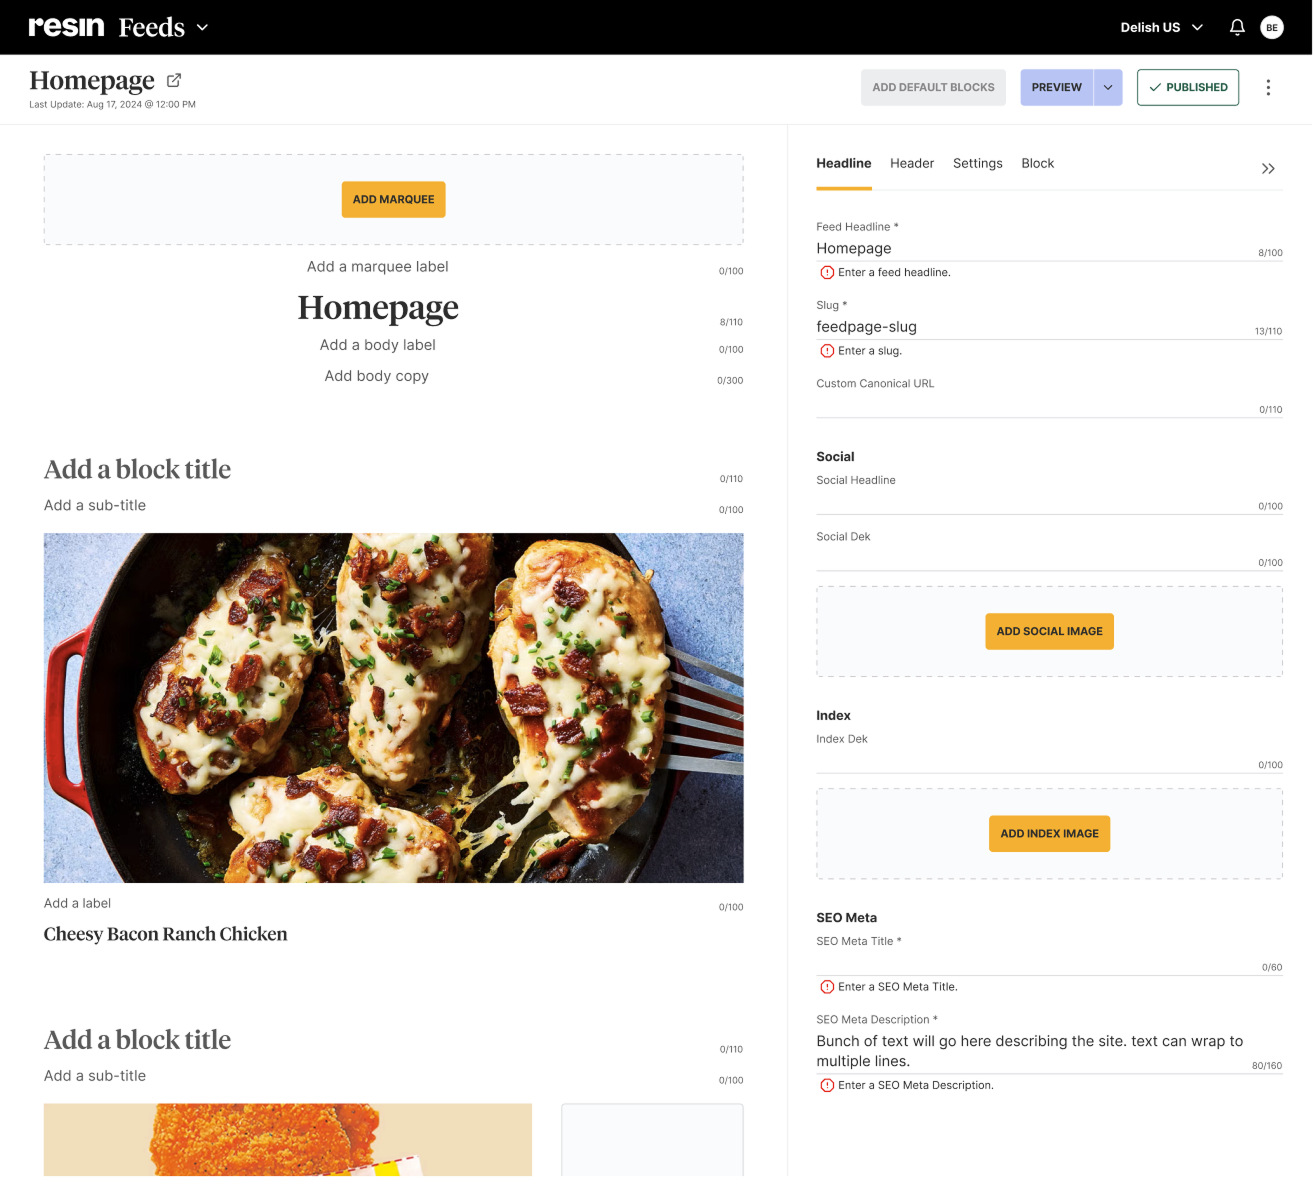
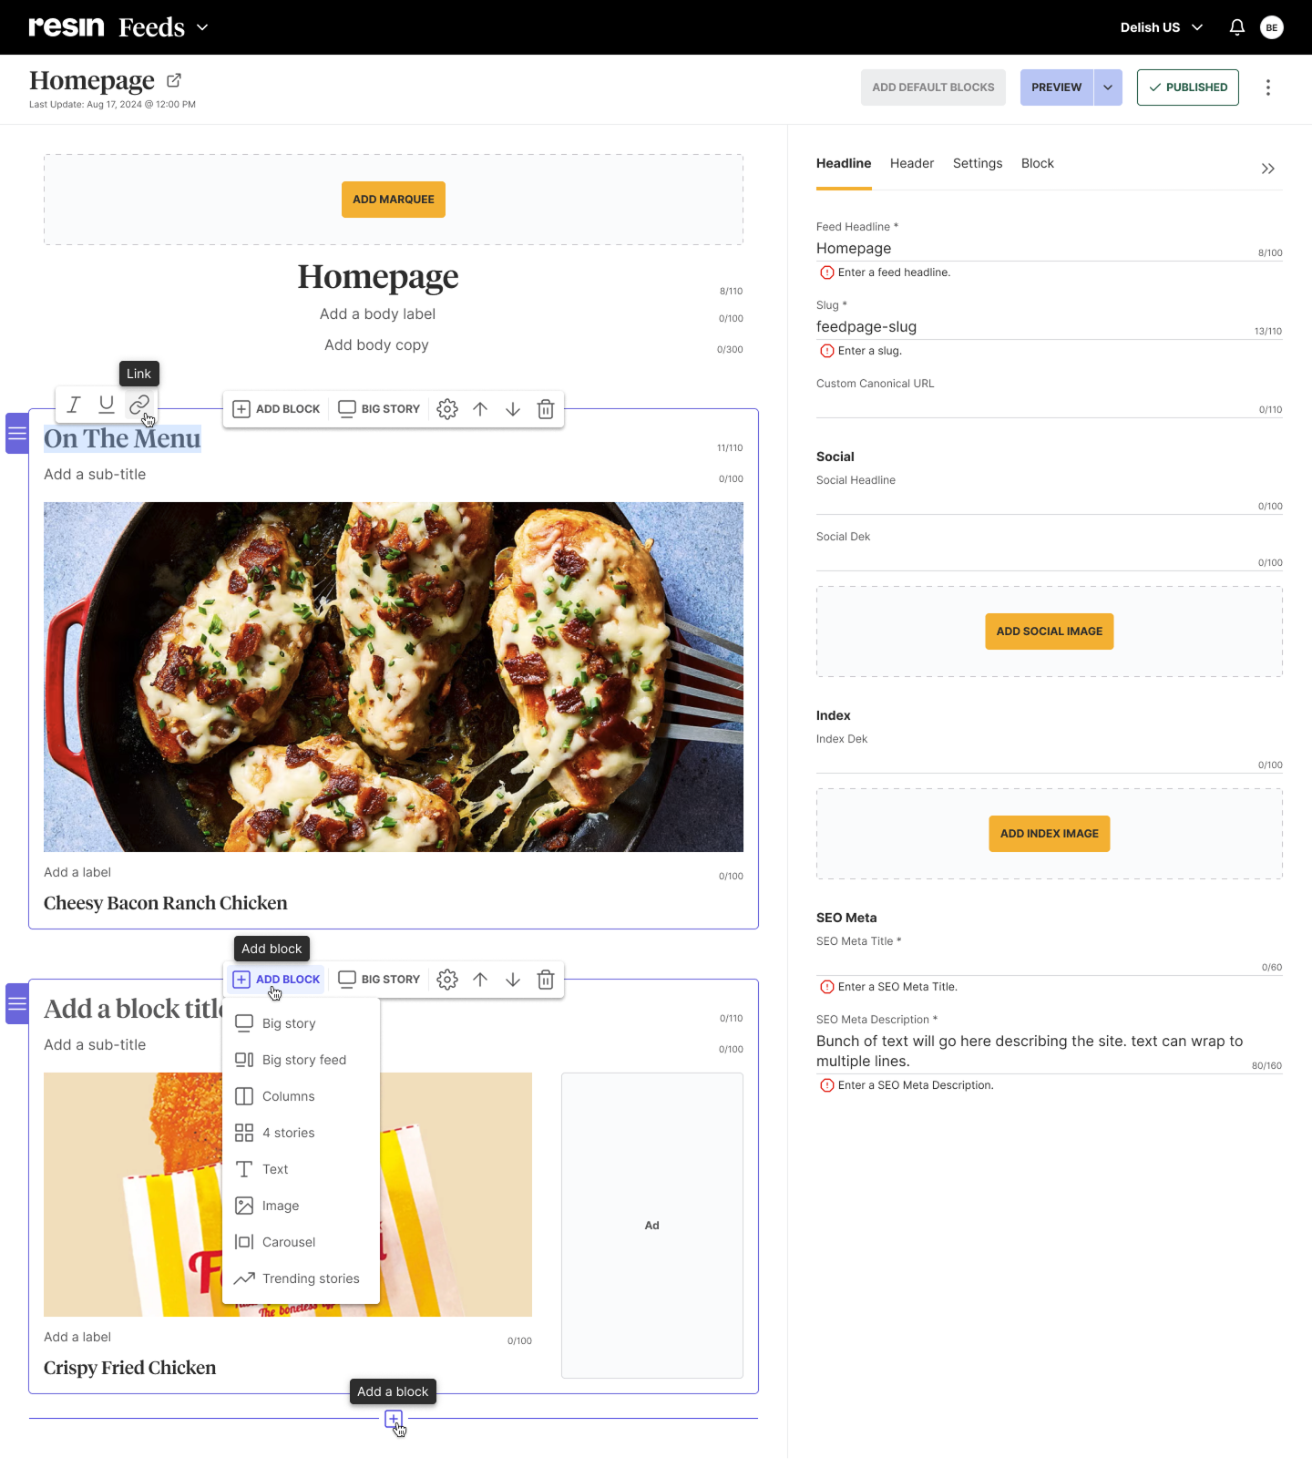
Fix template preview transitions

diff --git a/src/routes/templates.tsx b/src/routes/templates.tsx
@@ -2,7 +2,7 @@ import * as DialogPrimitive from "@radix-ui/react-dialog";
 import { createFileRoute, useNavigate } from "@tanstack/react-router";
 import { ExternalLink, X } from "lucide-react";
 import type { KeyboardEvent, MouseEvent } from "react";
-import { useMemo, useState } from "react";
+import { useEffect, useMemo, useState } from "react";
 
 import { DocsShell } from "@/components/docs/DocsShell";
 import { Button } from "@/components/ui/button";
@@ -329,6 +329,16 @@ function TemplatesPage() {
     () => templateGallery.templates.find((template) => template.id === search.preview),
     [search.preview],
   );
+  const [lastActiveTemplate, setLastActiveTemplate] = useState(activeTemplate);
+
+  useEffect(() => {
+    if (activeTemplate) {
+      setLastActiveTemplate(activeTemplate);
+    }
+  }, [activeTemplate]);
+
+  // Keep the dialog mounted during Radix's closed-state animation after its URL state clears.
+  const dialogTemplate = activeTemplate ?? lastActiveTemplate;
   const visibleTemplates = useMemo(
     () =>
       templateGallery.templates.filter(
@@ -394,7 +404,7 @@ function TemplatesPage() {
       </section>
 
       <TemplatePreviewDialog
-        template={activeTemplate}
+        template={dialogTemplate}
         open={Boolean(activeTemplate)}
         onOpenChange={(nextOpen) => {
           if (!nextOpen) closePreview();
